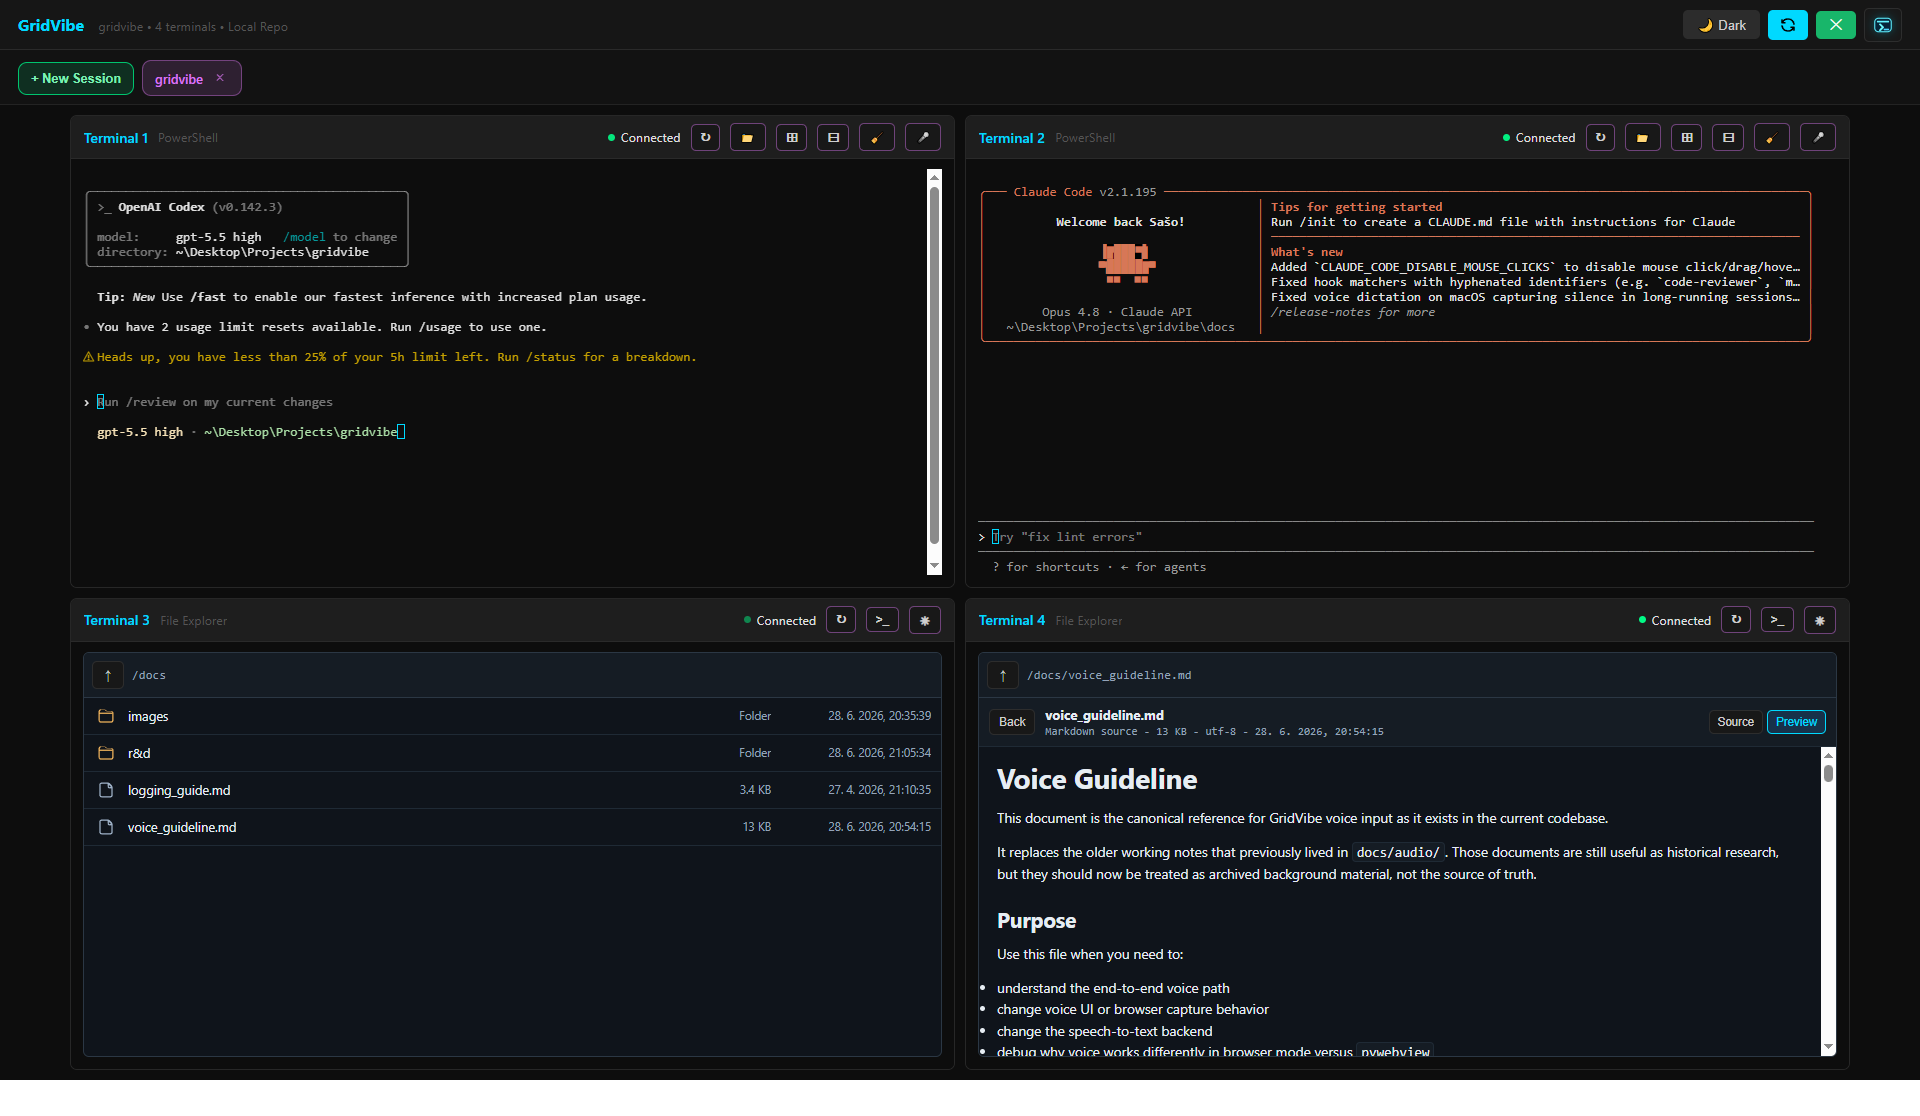
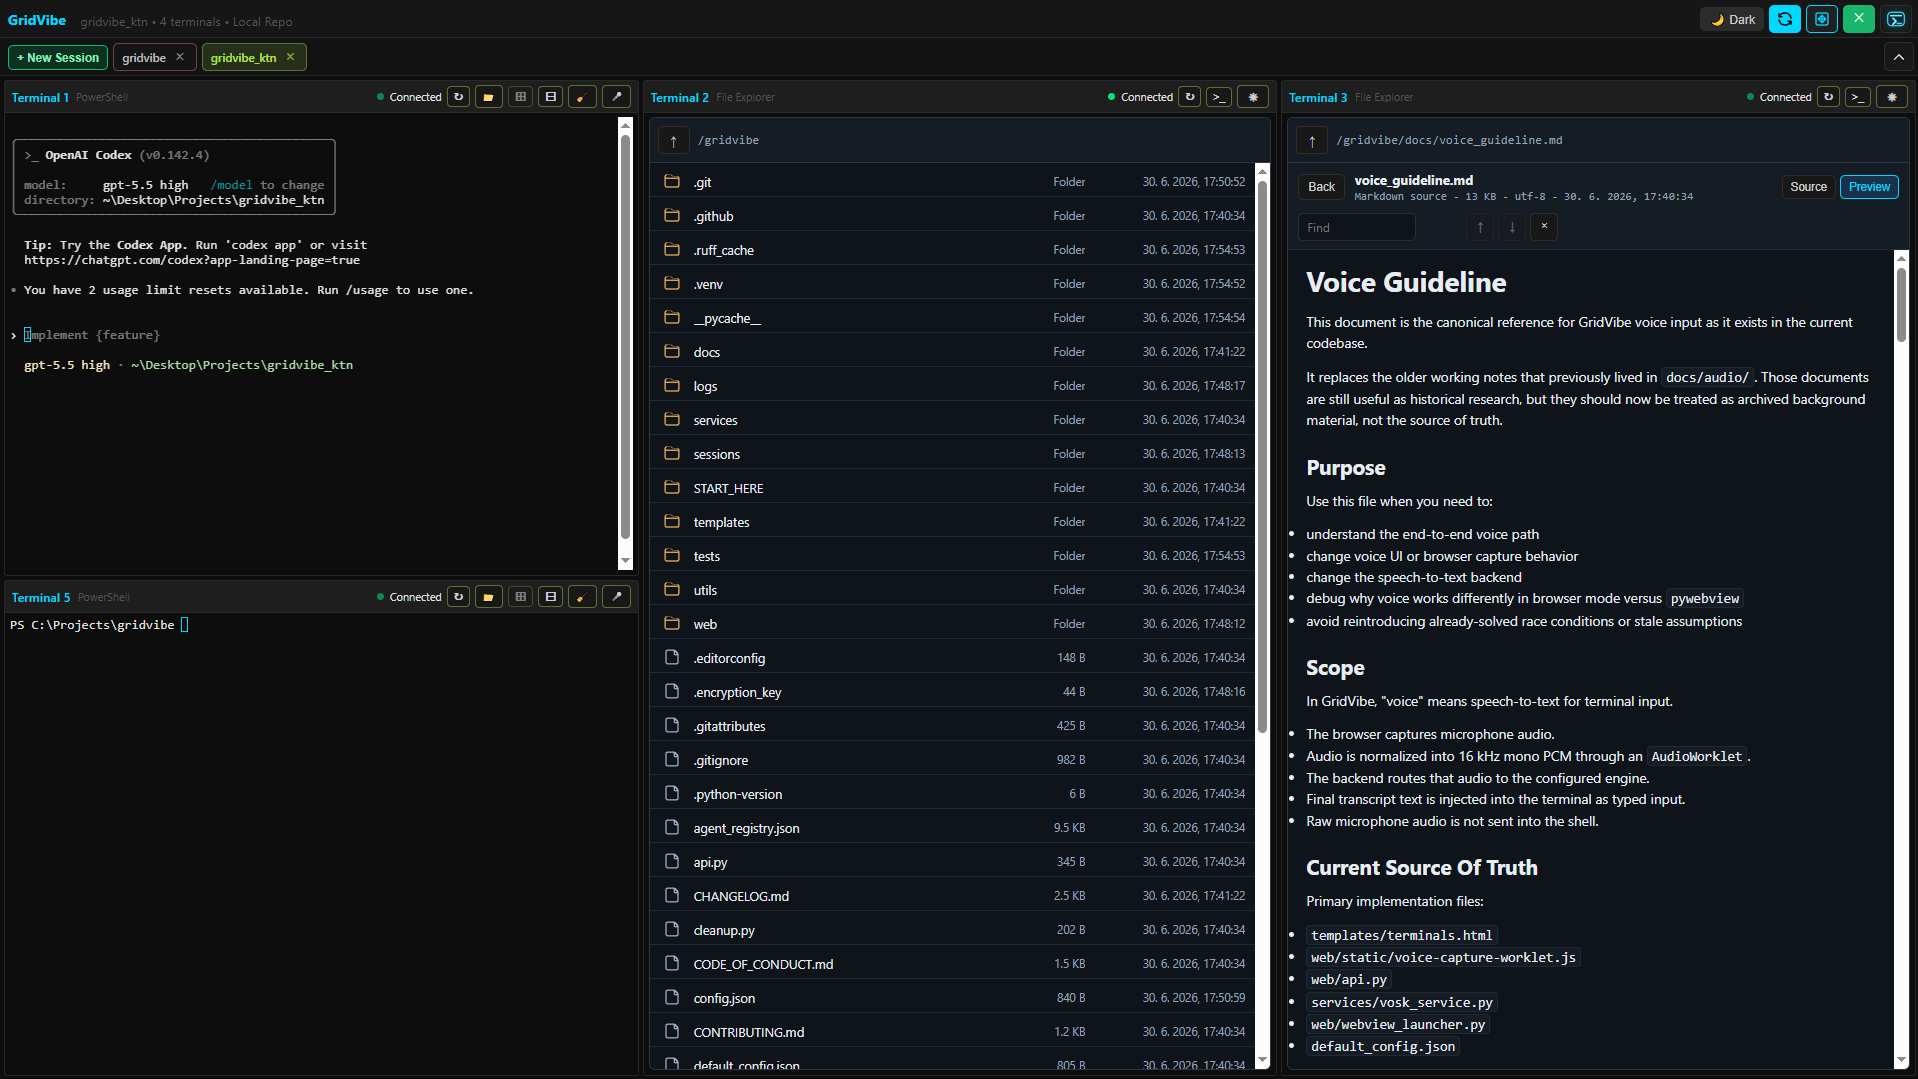
readme update

diff --git a/README.md b/README.md
@@ -1,6 +1,6 @@
 # GridVibe
 
-GridVibe is a browser-first workspace for launching and managing multiple SSH terminals, local shell panes, agent panes, and local repository file explorer panes from one control surface. It runs in a normal browser or, when `pywebview` is installed, in a native desktop window on Windows.
+GridVibe is a browser-first workspace for launching and managing multiple SSH terminals, local shell panes, agent panes, and SSH/SFTP or local repository file explorer panes from one control surface. It runs in a normal browser or, when `pywebview` is installed, in a native desktop window on Windows.
 
 [![CI](https://github.com/JSstudent/gridvibe/actions/workflows/ci.yml/badge.svg)](https://github.com/JSstudent/gridvibe/actions/workflows/ci.yml)
 ![License](https://img.shields.io/badge/license-MIT-blue.svg)
@@ -20,24 +20,30 @@ GridVibe is a browser-first workspace for launching and managing multiple SSH te
 
 ### Terminal Buttons
 
-The terminal workspace has global controls in the top bar and per-pane controls in each terminal header.
+The terminal workspace has global controls in the top bar, session controls in the tab bar, and per-pane controls in each terminal header.
 
 Top bar controls:
 
 - `Theme` cycles between system, light, and dark mode.
 - `Refresh` reloads session status and redraws terminal panes.
-- `Close tab` closes the selected session group from its session tab.
+- `Max surface` reduces workspace chrome and refits attached terminals so panes get more usable space.
 - `Fullscreen` toggles the workspace into and out of fullscreen mode.
 - `Settings` returns to the launcher page.
+
+Session bar controls:
+
+- Session tabs show each active session group. Drag tabs to reorder them; GridVibe persists the order for the running app state.
+- Each session tab has a close button for closing that session group.
+- The chevron next to the session tabs hides or shows the top bar. GridVibe remembers this top-bar visibility preference in the browser.
 
 Per-terminal controls:
 
 - `↻` resets that terminal view and replays the recent output buffer. On file explorer panes, it manually reloads the current directory or the currently open file.
 - `📁` switches an SSH or Local Repo terminal pane into a file explorer; `>_` switches a file explorer pane into a terminal opened at the currently selected explorer directory. Explorer panes keep their original root so parent-folder navigation remains available after switching back and forth.
+- `⊞` splits a terminal pane by cloning its connection into a new pane in the same session group when the layout and session limit allow it.
+- `⊟` closes a split pane and expands the remaining split area. Explorer panes cannot be split.
 - `🧹` clears the terminal display and purges its replay buffer.
 - `🎤` starts or stops voice input for that terminal when voice input is enabled.
-
-Session tabs show each active session group. Drag tabs to reorder them; GridVibe persists the order for the running app state.
 
 ### File Explorer Panes
 
@@ -51,7 +57,8 @@ Explorer panes support:
 - Switching the pane into a regular terminal opened at the current explorer directory.
 - Manual refresh from the pane header without continuous auto-refresh flicker.
 - Folder/file icons, size and modified-time metadata, and per-pane light/dark explorer theme toggling.
-- Click-to-open text files in a read-only viewer with wrapped long lines.
+- Click-to-open text files in a read-only editor-style viewer with wrapped long lines.
+- Client-side find inside the open file view, including `Ctrl+F`/`Cmd+F` focus, match counts, previous/next controls, `Enter`/`Shift+Enter` navigation, and clear.
 - Markdown files with a source tab and sanitized rendered preview when Markdown rendering dependencies are installed.
 - Lightweight syntax coloring for common source files such as Python, C/C++, Go, JavaScript/TypeScript, Java, Rust, shell, PowerShell, HTML, CSS, JSON, YAML, TOML, SQL, and related formats.
 - Size-limited previews. Binary files, directories, and paths outside the root are rejected.
@@ -126,9 +133,9 @@ After changing PATH, restart your shell, GridVibe, and any native window launche
 - SSH, WSL, PowerShell, cmd, and local repository modes
 - Per-pane startup modes for normal commands, agent CLIs, and file explorer panes
 - Saved launcher presets with encrypted SSH passwords
-- Session groups with tabs and drag-to-reorder persistence
-- xterm.js terminal panes with resize, refresh, clear, and replay buffer support
-- Local and SSH read-only file explorer panes with directory navigation and text/Markdown preview
+- Session groups with closable tabs, drag-to-reorder persistence, collapsible top bar, and max surface mode
+- xterm.js terminal panes with resize, refresh, clear, replay buffer, fullscreen, and dynamic split-pane support
+- Local and SSH read-only file explorer panes with directory navigation, text/Markdown preview, syntax highlighting, and client-side in-file search
 - Optional native desktop window through `pywebview`
 - Optional offline voice input through Vosk or faster-whisper
 - Theme support for system, light, and dark modes